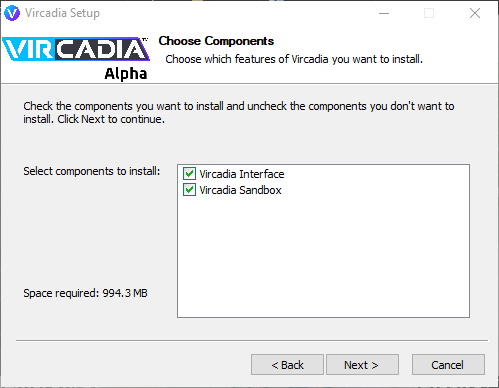
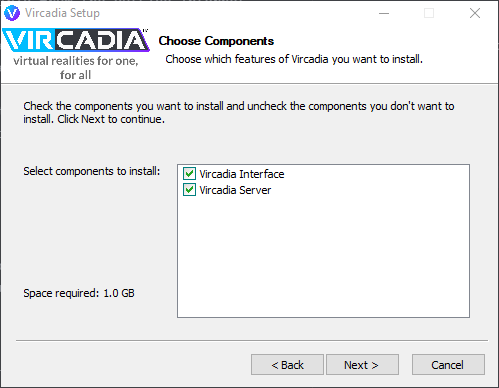
Update image for quick-start guide and update links.

diff --git a/docs/source/conf.py b/docs/source/conf.py
@@ -196,7 +196,7 @@ epub_exclude_files = ['search.html']
 # Variables
 
 rst_prolog = """
-.. |serverdeb| replace:: https://cdn.vircadia.com/dist/domain-server/ubuntu/vircadia-server_2021.1.2-20210525-b020558-0ubuntu1-1_amd64.deb
-.. |serverdebfile| replace:: vircadia-server_2021.1.2-20210525-b020558-0ubuntu1-1_amd64.deb
+.. |serverdeb| replace:: https://cdn.vircadia.com/dist/domain-server/ubuntu/vircadia-server_2021.1.3-eos-20210921-e5e2872-0ubuntu1-1_amd64.deb
+.. |serverdebfile| replace:: vircadia-server_2021.1.3-eos-20210921-e5e2872-0ubuntu1-1_amd64.deb
 .. |serverrpm| replace:: https://cdn.vircadia.com/dist/domain-server/amazon-linux/vircadia-server-2021.1.1_EOS_20210405_1751a59-1.amzn2.x86_64.rpm
 """
